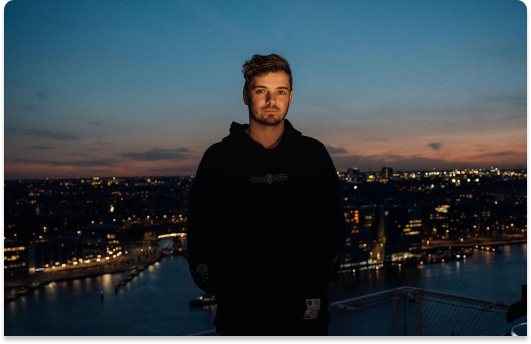
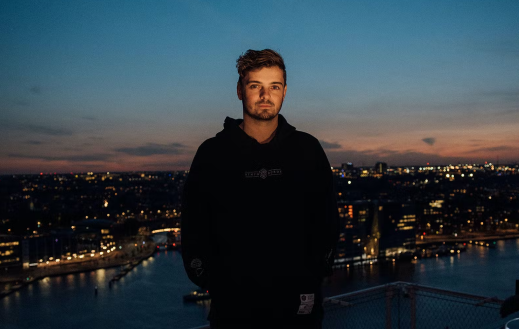
editing images

diff --git a/app/public/assets/css/home.css b/app/public/assets/css/home.css
@@ -25,10 +25,11 @@ body {
 .transparent-card {
     text-align: center;
     color: white;
-    background-color: rgba(190, 190, 190, 0.3);
+    background-color: rgba(190, 190, 190, 0.2);
     box-shadow: 0 5px 10px rgba(128, 128, 128, 0.7);
     border-radius: 10px;
     position: relative;
+    backdrop-filter: blur(10px);
 }
 
 .transparent-card-p {
@@ -61,5 +62,29 @@ h1 {
 }
 
 .row{
-    width: 100%;
+    display: flex;
+    flex-wrap: nowrap;
+}
+
+.column{
+    flex: 33.33%;
+    padding: 1%;
+    position: relative;
+}
+
+.column p{
+    font-size: 20pt;
+    width: 65%;
+    position: absolute;
+    top: 50%;
+    left: 0%;
+    transform: translate(-90%, -50%);
+}
+
+img{
+    border-radius: 10px;
+}
+
+.column .title:hover{
+    background-color: rgba(44, 43, 43, 0.237);
 }

diff --git a/app/View/Home/index.php b/app/View/Home/index.php
@@ -21,13 +21,16 @@
       it all!</p>
     <div class="row">
       <div class="column">
-        <img src="../assets/img/homepage/history.png" alt="History" style="width:70%">
+        <img src="../assets/img/homepage/history.png" alt="History">
+        <p class="transparent-card title">Haarlem Through The Years</p>
       </div>
       <div class="column">
-        <img src="../assets/img/homepage/food.png" alt="Food" style="width:70%">
+        <img src="../assets/img/homepage/food.png" alt="Food">
+        <p class="transparent-card title">A Heaven For Foodies</p>
       </div>
       <div class="column">
-        <img src="../assets/img/homepage/culture.png" alt="Culture" style="width:70%">
+        <img src="../assets/img/homepage/culture.png" alt="Culture">
+        <p class="transparent-card title">Museums, Theatres, Night Life!</p>
       </div>
     </div>
   </div>
@@ -39,28 +42,37 @@
       programs to make
       sure they enjoy the festival as much as you do.</p>
     <div class="row">
-      <div class="column">
-        <img src="../assets/img/homepage/festival-history.png" alt="Stroll through history" style="width:70%">
-      </div>
-      <div class="column">
-        <img src="../assets/img/homepage/festival-yummy.png" alt="Yummy" style="width:70%">
-      </div>
-      <div class="column">
-        <img src="../assets/img/homepage/festival-dance.png" alt="Dance" style="width:70%">
-      </div>
+      <a href="/history">
+        <div class="column">
+          <img src="../assets/img/homepage/festival-history.png" alt="Stroll through history">
+          <p class="transparent-card title">Stroll Through History</p>
+        </div>
+      </a>
+      <a href="/yummy">
+        <div class="column">
+          <img src="../assets/img/homepage/festival-yummy.png" alt="Yummy">
+          <p class="transparent-card title">Yummy</p>
+        </div>
+      </a>
+      <a href="/dance">
+        <div class="column">
+          <img src="../assets/img/homepage/festival-dance.png" alt="Dance">
+          <p class="transparent-card title">Dance!</p>
+        </div>
+      </a>
     </div>
   </div>
   <div class="section2">
     <h1 class="section2-title">OUR EVENTS</h1>
     <div class="row">
       <div class="column">
-        <img src="../assets/img/homepage/groteMarkt.png" alt="Grote Markt" style="width:70%">
+        <img src="../assets/img/homepage/groteMarkt.png" alt="Grote Markt">
       </div>
       <div class="column">
-        <img src="../assets/img/homepage/restaurant.png" alt="Restaurant" style="width:70%">
+        <img src="../assets/img/homepage/restaurant.png" alt="Restaurant">
       </div>
       <div class="column">
-        <img src="../assets/img/homepage/martinGarrix.png" alt="Martin Garrix" style="width:70%">
+        <img src="../assets/img/homepage/martinGarrix.png" alt="Martin Garrix">
       </div>
     </div>
   </div>
